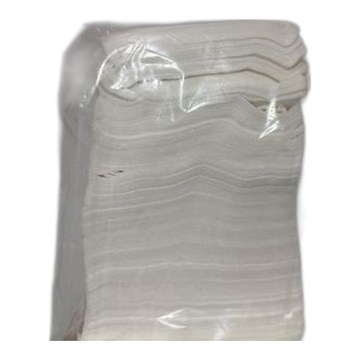
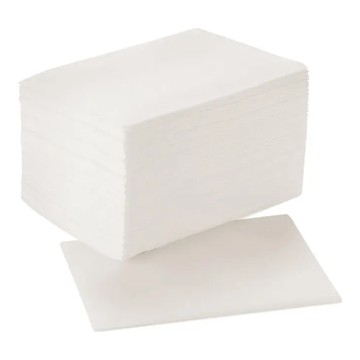
Inventario: 18 fotos nuevas (Ybera, Terra Coco, alcohol, manicura, Biokera, L'Oréal)
Claude-Session: https://claude.ai/code/session_01KR1AxBYgpkpsBHBxHxPdYE

diff --git a/index.html b/index.html
@@ -17,8 +17,8 @@
 <script src="https://www.gstatic.com/firebasejs/10.12.2/firebase-app-compat.js"></script>
 <script src="https://www.gstatic.com/firebasejs/10.12.2/firebase-auth-compat.js"></script>
 <script src="https://www.gstatic.com/firebasejs/10.12.2/firebase-firestore-compat.js"></script>
-<script>window.BUILD="95ebae5b3173"</script>
-<script src="web.js?v=95ebae5b3173"></script>
+<script>window.BUILD="974f87dbcc66"</script>
+<script src="web.js?v=974f87dbcc66"></script>
 </head>
 <body>
 <link rel="preconnect" href="https://fonts.googleapis.com">
@@ -1685,7 +1685,7 @@ async function invDeshacer(b){const pid=b.dataset.pid,ref=db.doc('inventario/'+p
 async function invTermReciente(pid){try{const s=await db.collection('invMov').where('dia','==',hoy()).get(),lim=Date.now()-3600e3;return s.docs.map(d=>d.data()).filter(m=>m.pid===pid&&/^Se terminó/.test(m.tipo||'')&&Date.parse(m.fecha)>lim).sort((a,b)=>(b.fecha||'').localeCompare(a.fecha||''))[0]||null}catch(e){return null}}
 var invB={},invBL={};
 function invBundle(u){if(invBL[u])return;invBL[u]=1;fetch(u).then(r=>r.json()).then(j=>{Object.assign(invB,j);if(modo==='caja'&&tab==='inv'&&$('#invSheet').hidden)renderInv()}).catch(()=>{invBL[u]=0})}
-const FOTOS_V='20261122d',fotoUrl=f=>/^fotos\//.test(f)?f+'?v='+FOTOS_V:f;
+const FOTOS_V='20261123a',fotoUrl=f=>/^fotos\//.test(f)?f+'?v='+FOTOS_V:f;
 const invFoto=p=>{if(!p)return '';if(p.foto)return `<img src="${esc(fotoUrl(p.foto))}" alt="" loading="lazy">`;if(p.fotoB){if(invB[p.id])return `<img src="${invB[p.id]}" alt="" loading="lazy">`;invBundle(p.fotoB)}return ''};
 const INV_CARGA=[
  {ubic:'Cafetería y Bar',marca:'Coca-Cola',nombre:'Coca-Cola Sabor Original',foto:'fotos/cb01.jpg',pres:'caja de 12 botellas (250 ml)',cerr:3,abie:1},
@@ -1706,7 +1706,7 @@ const EV_IDX={};EV_CARTA.forEach((x,i)=>EV_IDX[x[0]]=i);const EV_FAMS=[...new Se
 const esAlfTinte=p=>p.ubic==='Tintes Alfaparf';
 function evTono(p){const t=String(p.nombre||'').toUpperCase().replace(/,/g,'.');const re=/(\d{1,2}(?:\.\d{1,3})?(?:NB|NI)?)/g;let m;while((m=re.exec(t))){if(EV_IDX[m[1]]!=null)return m[1]}return ''}
 const evFoto=t=>'fotos/ev_'+t.replace(/\./g,'-')+'.jpg';
-const FOTO_SET=[["c13","PriceSmart","Azúcar morena en sobres, bolsa 750"],["c11","Sprite","Refresco lima-limón en lata 237 ml (paquete de 12)"],["c10","Hornimans","Infusión Toronjil y Valeriana"],["c09","Café Durán","Café puro molido regular"],["c08","La Estrella","Azúcar blanca de caña"],["c07","Tsunami","Vasos de papel 6 oz"],["c06","Sevilla","Vasos de papel negros 8 oz"],["c05","Nestlé","Leche en polvo Klim FortiCrece"],["c04","Loma Negra","Vino tinto Merlot 2025"],["c03","Blue Nun","Vino blanco Authentic White"],["c02","Loma Negra","Vino espumante Brut (Chile)"],["s31","Joico","Kit Youth Lock (shampoo + acondicionador + sachet Moisture Recovery)"],["s30","Joico","Color Balance Purple Acondicionador"],["s29","Joico","Color Balance Purple Shampoo"],["s25","Joico","Defy Damage Acondicionador protector"],["s24","Joico","K-Pak Color Therapy Acondicionador"],["s23","Joico","K-Pak Color Therapy Shampoo"],["s03","Lakmé","L2 Care acondicionador desenredante sin aclarado"],["s02","Alfaparf Milano","Semi di Lino Smooth Smoothing Oil"],["x14","Arctic Fox","Space Cowgirl tinte semipermanente"],["v133","Alfaparf Milano","Semi di Lino Smooth Smoothing Oil"],["v23","Alfaparf Milano","Semi di Lino Density Acondicionador espesante"],["v25","Milk_Shake","Insta.Light Shampoo fortalecedor"],["v27","Lendan","Plexforte Nº5 Acondicionador"],["v28","Biotop Professional","04 Shedding Shampoo anticaída con biotina"],["v29","Ybera Paris","Discovery Express Clean & Care Shampoo (paso 1)"],["v30","Alfaparf Milano","Semi di Lino Scalp Rebalance Shampoo purificante"],["v41","Biotop Professional","02 Eco Dandruff Shampoo anticaspa"],["v46","Joico","K-Pak 1 Shampoo clarificante"],["v47","Joico","K-Pak 2 Sellador de cutícula"],["v48","Joico","K-Pak 3 Reconstructor"],["v49","Joico","K-Pak 4 Hydrator tratamiento intenso"],["v148","Augeas","Naturally oxidante 10 vol (3%)"],["x09","Arctic Fox","Sterling tinte semipermanente"],["x10","Arctic Fox","Virgin Pink tinte semipermanente"],["x11","Arctic Fox","Poseidon tinte semipermanente"],["x12","Arctic Fox","Electric Paradise tinte semipermanente"]];
+const FOTO_SET=[["c13","PriceSmart","Azúcar morena en sobres, bolsa 750"],["c11","Sprite","Refresco lima-limón en lata 237 ml (paquete de 12)"],["c10","Hornimans","Infusión Toronjil y Valeriana"],["c09","Café Durán","Café puro molido regular"],["c08","La Estrella","Azúcar blanca de caña"],["c07","Tsunami","Vasos de papel 6 oz"],["c06","Sevilla","Vasos de papel negros 8 oz"],["c05","Nestlé","Leche en polvo Klim FortiCrece"],["c04","Loma Negra","Vino tinto Merlot 2025"],["c03","Blue Nun","Vino blanco Authentic White"],["c02","Loma Negra","Vino espumante Brut (Chile)"],["s31","Joico","Kit Youth Lock (shampoo + acondicionador + sachet Moisture Recovery)"],["s30","Joico","Color Balance Purple Acondicionador"],["s29","Joico","Color Balance Purple Shampoo"],["s25","Joico","Defy Damage Acondicionador protector"],["s24","Joico","K-Pak Color Therapy Acondicionador"],["s23","Joico","K-Pak Color Therapy Shampoo"],["s03","Lakmé","L2 Care acondicionador desenredante sin aclarado"],["s02","Alfaparf Milano","Semi di Lino Smooth Smoothing Oil"],["x14","Arctic Fox","Space Cowgirl tinte semipermanente"],["v133","Alfaparf Milano","Semi di Lino Smooth Smoothing Oil"],["v23","Alfaparf Milano","Semi di Lino Density Acondicionador espesante"],["v25","Milk_Shake","Insta.Light Shampoo fortalecedor"],["v27","Lendan","Plexforte Nº5 Acondicionador"],["v28","Biotop Professional","04 Shedding Shampoo anticaída con biotina"],["v29","Ybera Paris","Discovery Express Clean & Care Shampoo (paso 1)"],["v30","Alfaparf Milano","Semi di Lino Scalp Rebalance Shampoo purificante"],["v41","Biotop Professional","02 Eco Dandruff Shampoo anticaspa"],["v46","Joico","K-Pak 1 Shampoo clarificante"],["v47","Joico","K-Pak 2 Sellador de cutícula"],["v48","Joico","K-Pak 3 Reconstructor"],["v49","Joico","K-Pak 4 Hydrator tratamiento intenso"],["v148","Augeas","Naturally oxidante 10 vol (3%)"],["x09","Arctic Fox","Sterling tinte semipermanente"],["x10","Arctic Fox","Virgin Pink tinte semipermanente"],["x11","Arctic Fox","Poseidon tinte semipermanente"],["x12","Arctic Fox","Electric Paradise tinte semipermanente"],["v107","Ybera Paris","Fashion Stylist Enhancer Sealant"],["v108","Ybera Paris","Botulínica Fiber Codes Shampoo anti-age (paso 1)"],["v153","Ybera Paris","Discovery Memórifios Stemcell"],["v73","Terra Coco","Cocktail Capilar jabón de coco líquido"],["v154","Terra Coco","Cocktail selante potencializador"],["l16","Herva","Alcohol desnaturalizado 70°"],["l15","Herva","Alcohol desnaturalizado 95°"],["m08","Arobell","Ablandador de callos y cutícula"],["m33","Olasalon","Lima negra recta 120/180"],["m34","Insumo","Palitos de naranjo"],["m41","Mia Secret","Líquido monómero"],["m51","Insumo","Toallas desechables de manicura (2 cerradas + 1 en uso)"],["s01","Biokera Natura","Bioplastia Shampoo molecular (C)"],["v75","Biokera Natura","Bioplastia Shampoo molecular (C)"],["s04","Biokera Natura","Bioplastia Mascarilla nutritiva (M)"],["s10","L'Oréal Professionnel","Serie Expert Inforcer Mascarilla"],["v62","L'Oréal Professionnel","Serie Expert Inforcer Mascarilla"],["s13","L'Oréal Professionnel","Serie Expert Blondifier Acondicionador"]];
 function invCargaFotos(){if(!duena||!db)return;{const nk=s=>norm(String(s||'').replace(/\s*\(en uso\)\s*$/i,'')).toLowerCase();invs.forEach(p=>{const x=FOTO_SET.find(z=>z[0]===p.id||(nk(z[1])===nk(p.marca)&&nk(z[2])===nk(p.nombre)));if(!x||p._fs)return;const f='fotos/'+x[0]+'.jpg',k=f+'@'+FOTOS_V;if(p.fotoFix===k)return;p._fs=1;const u={foto:f,fotoFix:k};if(p.foto!==f&&p.foto)u.fotoAnt=p.foto;db.doc('inventario/'+p.id).update(u).catch(()=>{p._fs=0})})}const FX=[[/sangr[ií]a/i,'fotos/c20.jpg'],[/separador(es)? de dedos/i,'fotos/m53.jpg']];invs.forEach(p=>{const x=FX.find(z=>z[0].test(p.nombre||''));if(!x||p._fx2||p.fotoFix===FOTOS_V)return;p._fx2=1;const u={foto:x[1],fotoFix:FOTOS_V};if(p.foto!==x[1])u.fotoAnt=p.foto||'';db.doc('inventario/'+p.id).update(u).catch(()=>{p._fx2=0})});invs.forEach(p=>{const c=cartaDe(p);if(!c||p._ct||/^fotos\/ev_/.test(p.foto||''))return;const f='fotos/'+c[3];if(p.foto===f)return;p._ct=1;const u={foto:f};if(!/^fotos\/c[ay]_/.test(p.foto||''))u.fotoAnt=p.foto||'';db.doc('inventario/'+p.id).update(u).catch(()=>{p._ct=0})});invs.forEach(p=>{if(p._ev||!/^fotos\/ev_/.test(p.foto||'')||!('fotoAnt' in p))return;p._ev=1;db.doc('inventario/'+p.id).update({foto:p.fotoAnt||''}).catch(()=>{p._ev=0})});invs.forEach(p=>{if(/^cosmetiquera peluda love/i.test(p.nombre||'')&&p.foto!=='fotos/rf_cosmet1.jpg'&&!p._fc){p._fc=1;db.doc('inventario/'+p.id).update({foto:'fotos/rf_cosmet1.jpg'}).catch(()=>{p._fc=0})}});invs.forEach(p=>{if(p.marca==='Coca-Cola'&&p.nombre==='Coca-Cola Sabor Original'&&p.pres==='botella 250 ml'&&!p._cc){p._cc=1;p.pres='caja de 12 botellas (250 ml)';db.doc('inventario/'+p.id).update({pres:p.pres}).catch(()=>{p._cc=0})}});invs.forEach(p=>{if(p.marca==='Corona'&&['Coronita (cerveza pequeña)','Coronita Extra (cerveza)'].includes(p.nombre)&&!p._rn){p._rn=1;p.nombre='Coronita (cerveza)';p.pres='six pack (6 botellas)';db.doc('inventario/'+p.id).update({nombre:p.nombre,pres:p.pres}).catch(()=>{p._rn=0})}});const F={};INV_CARGA.forEach(x=>{if(x.foto)F[invKey(x)]=x.foto});invs.forEach(p=>{const f=F[invKey(p)];if(f&&!p.foto&&!p._fx){p._fx=1;db.doc('inventario/'+p.id).update({foto:f}).catch(()=>{p._fx=0})}})}
 async function invBorrar(p){await db.doc('inventario/'+p.id).delete();await db.collection('invMov').add({fecha:new Date().toISOString(),dia:hoy(),pid:p.id,marca:p.marca||'',producto:p.nombre,pres:p.pres||'',dc:-(+p.cerr||0),da:-(+p.abie||0),cerr:0,abie:0,tipo:'Producto eliminado',nota:'',por:invQuien()});invMovs=null}
 const esCosmet=p=>p.ubic==='Regalos de Fidelidad'&&/cosmetiquer/i.test(p.nombre||'')&&!/love/i.test(p.nombre||'');

diff --git a/src/app.html b/src/app.html
@@ -1664,7 +1664,7 @@ async function invDeshacer(b){const pid=b.dataset.pid,ref=db.doc('inventario/'+p
 async function invTermReciente(pid){try{const s=await db.collection('invMov').where('dia','==',hoy()).get(),lim=Date.now()-3600e3;return s.docs.map(d=>d.data()).filter(m=>m.pid===pid&&/^Se terminó/.test(m.tipo||'')&&Date.parse(m.fecha)>lim).sort((a,b)=>(b.fecha||'').localeCompare(a.fecha||''))[0]||null}catch(e){return null}}
 var invB={},invBL={};
 function invBundle(u){if(invBL[u])return;invBL[u]=1;fetch(u).then(r=>r.json()).then(j=>{Object.assign(invB,j);if(modo==='caja'&&tab==='inv'&&$('#invSheet').hidden)renderInv()}).catch(()=>{invBL[u]=0})}
-const FOTOS_V='20261122d',fotoUrl=f=>/^fotos\//.test(f)?f+'?v='+FOTOS_V:f;
+const FOTOS_V='20261123a',fotoUrl=f=>/^fotos\//.test(f)?f+'?v='+FOTOS_V:f;
 const invFoto=p=>{if(!p)return '';if(p.foto)return `<img src="${esc(fotoUrl(p.foto))}" alt="" loading="lazy">`;if(p.fotoB){if(invB[p.id])return `<img src="${invB[p.id]}" alt="" loading="lazy">`;invBundle(p.fotoB)}return ''};
 const INV_CARGA=[
  {ubic:'Cafetería y Bar',marca:'Coca-Cola',nombre:'Coca-Cola Sabor Original',foto:'fotos/cb01.jpg',pres:'caja de 12 botellas (250 ml)',cerr:3,abie:1},
@@ -1685,7 +1685,7 @@ const EV_IDX={};EV_CARTA.forEach((x,i)=>EV_IDX[x[0]]=i);const EV_FAMS=[...new Se
 const esAlfTinte=p=>p.ubic==='Tintes Alfaparf';
 function evTono(p){const t=String(p.nombre||'').toUpperCase().replace(/,/g,'.');const re=/(\d{1,2}(?:\.\d{1,3})?(?:NB|NI)?)/g;let m;while((m=re.exec(t))){if(EV_IDX[m[1]]!=null)return m[1]}return ''}
 const evFoto=t=>'fotos/ev_'+t.replace(/\./g,'-')+'.jpg';
-const FOTO_SET=[["c13","PriceSmart","Azúcar morena en sobres, bolsa 750"],["c11","Sprite","Refresco lima-limón en lata 237 ml (paquete de 12)"],["c10","Hornimans","Infusión Toronjil y Valeriana"],["c09","Café Durán","Café puro molido regular"],["c08","La Estrella","Azúcar blanca de caña"],["c07","Tsunami","Vasos de papel 6 oz"],["c06","Sevilla","Vasos de papel negros 8 oz"],["c05","Nestlé","Leche en polvo Klim FortiCrece"],["c04","Loma Negra","Vino tinto Merlot 2025"],["c03","Blue Nun","Vino blanco Authentic White"],["c02","Loma Negra","Vino espumante Brut (Chile)"],["s31","Joico","Kit Youth Lock (shampoo + acondicionador + sachet Moisture Recovery)"],["s30","Joico","Color Balance Purple Acondicionador"],["s29","Joico","Color Balance Purple Shampoo"],["s25","Joico","Defy Damage Acondicionador protector"],["s24","Joico","K-Pak Color Therapy Acondicionador"],["s23","Joico","K-Pak Color Therapy Shampoo"],["s03","Lakmé","L2 Care acondicionador desenredante sin aclarado"],["s02","Alfaparf Milano","Semi di Lino Smooth Smoothing Oil"],["x14","Arctic Fox","Space Cowgirl tinte semipermanente"],["v133","Alfaparf Milano","Semi di Lino Smooth Smoothing Oil"],["v23","Alfaparf Milano","Semi di Lino Density Acondicionador espesante"],["v25","Milk_Shake","Insta.Light Shampoo fortalecedor"],["v27","Lendan","Plexforte Nº5 Acondicionador"],["v28","Biotop Professional","04 Shedding Shampoo anticaída con biotina"],["v29","Ybera Paris","Discovery Express Clean & Care Shampoo (paso 1)"],["v30","Alfaparf Milano","Semi di Lino Scalp Rebalance Shampoo purificante"],["v41","Biotop Professional","02 Eco Dandruff Shampoo anticaspa"],["v46","Joico","K-Pak 1 Shampoo clarificante"],["v47","Joico","K-Pak 2 Sellador de cutícula"],["v48","Joico","K-Pak 3 Reconstructor"],["v49","Joico","K-Pak 4 Hydrator tratamiento intenso"],["v148","Augeas","Naturally oxidante 10 vol (3%)"],["x09","Arctic Fox","Sterling tinte semipermanente"],["x10","Arctic Fox","Virgin Pink tinte semipermanente"],["x11","Arctic Fox","Poseidon tinte semipermanente"],["x12","Arctic Fox","Electric Paradise tinte semipermanente"]];
+const FOTO_SET=[["c13","PriceSmart","Azúcar morena en sobres, bolsa 750"],["c11","Sprite","Refresco lima-limón en lata 237 ml (paquete de 12)"],["c10","Hornimans","Infusión Toronjil y Valeriana"],["c09","Café Durán","Café puro molido regular"],["c08","La Estrella","Azúcar blanca de caña"],["c07","Tsunami","Vasos de papel 6 oz"],["c06","Sevilla","Vasos de papel negros 8 oz"],["c05","Nestlé","Leche en polvo Klim FortiCrece"],["c04","Loma Negra","Vino tinto Merlot 2025"],["c03","Blue Nun","Vino blanco Authentic White"],["c02","Loma Negra","Vino espumante Brut (Chile)"],["s31","Joico","Kit Youth Lock (shampoo + acondicionador + sachet Moisture Recovery)"],["s30","Joico","Color Balance Purple Acondicionador"],["s29","Joico","Color Balance Purple Shampoo"],["s25","Joico","Defy Damage Acondicionador protector"],["s24","Joico","K-Pak Color Therapy Acondicionador"],["s23","Joico","K-Pak Color Therapy Shampoo"],["s03","Lakmé","L2 Care acondicionador desenredante sin aclarado"],["s02","Alfaparf Milano","Semi di Lino Smooth Smoothing Oil"],["x14","Arctic Fox","Space Cowgirl tinte semipermanente"],["v133","Alfaparf Milano","Semi di Lino Smooth Smoothing Oil"],["v23","Alfaparf Milano","Semi di Lino Density Acondicionador espesante"],["v25","Milk_Shake","Insta.Light Shampoo fortalecedor"],["v27","Lendan","Plexforte Nº5 Acondicionador"],["v28","Biotop Professional","04 Shedding Shampoo anticaída con biotina"],["v29","Ybera Paris","Discovery Express Clean & Care Shampoo (paso 1)"],["v30","Alfaparf Milano","Semi di Lino Scalp Rebalance Shampoo purificante"],["v41","Biotop Professional","02 Eco Dandruff Shampoo anticaspa"],["v46","Joico","K-Pak 1 Shampoo clarificante"],["v47","Joico","K-Pak 2 Sellador de cutícula"],["v48","Joico","K-Pak 3 Reconstructor"],["v49","Joico","K-Pak 4 Hydrator tratamiento intenso"],["v148","Augeas","Naturally oxidante 10 vol (3%)"],["x09","Arctic Fox","Sterling tinte semipermanente"],["x10","Arctic Fox","Virgin Pink tinte semipermanente"],["x11","Arctic Fox","Poseidon tinte semipermanente"],["x12","Arctic Fox","Electric Paradise tinte semipermanente"],["v107","Ybera Paris","Fashion Stylist Enhancer Sealant"],["v108","Ybera Paris","Botulínica Fiber Codes Shampoo anti-age (paso 1)"],["v153","Ybera Paris","Discovery Memórifios Stemcell"],["v73","Terra Coco","Cocktail Capilar jabón de coco líquido"],["v154","Terra Coco","Cocktail selante potencializador"],["l16","Herva","Alcohol desnaturalizado 70°"],["l15","Herva","Alcohol desnaturalizado 95°"],["m08","Arobell","Ablandador de callos y cutícula"],["m33","Olasalon","Lima negra recta 120/180"],["m34","Insumo","Palitos de naranjo"],["m41","Mia Secret","Líquido monómero"],["m51","Insumo","Toallas desechables de manicura (2 cerradas + 1 en uso)"],["s01","Biokera Natura","Bioplastia Shampoo molecular (C)"],["v75","Biokera Natura","Bioplastia Shampoo molecular (C)"],["s04","Biokera Natura","Bioplastia Mascarilla nutritiva (M)"],["s10","L'Oréal Professionnel","Serie Expert Inforcer Mascarilla"],["v62","L'Oréal Professionnel","Serie Expert Inforcer Mascarilla"],["s13","L'Oréal Professionnel","Serie Expert Blondifier Acondicionador"]];
 function invCargaFotos(){if(!duena||!db)return;{const nk=s=>norm(String(s||'').replace(/\s*\(en uso\)\s*$/i,'')).toLowerCase();invs.forEach(p=>{const x=FOTO_SET.find(z=>z[0]===p.id||(nk(z[1])===nk(p.marca)&&nk(z[2])===nk(p.nombre)));if(!x||p._fs)return;const f='fotos/'+x[0]+'.jpg',k=f+'@'+FOTOS_V;if(p.fotoFix===k)return;p._fs=1;const u={foto:f,fotoFix:k};if(p.foto!==f&&p.foto)u.fotoAnt=p.foto;db.doc('inventario/'+p.id).update(u).catch(()=>{p._fs=0})})}const FX=[[/sangr[ií]a/i,'fotos/c20.jpg'],[/separador(es)? de dedos/i,'fotos/m53.jpg']];invs.forEach(p=>{const x=FX.find(z=>z[0].test(p.nombre||''));if(!x||p._fx2||p.fotoFix===FOTOS_V)return;p._fx2=1;const u={foto:x[1],fotoFix:FOTOS_V};if(p.foto!==x[1])u.fotoAnt=p.foto||'';db.doc('inventario/'+p.id).update(u).catch(()=>{p._fx2=0})});invs.forEach(p=>{const c=cartaDe(p);if(!c||p._ct||/^fotos\/ev_/.test(p.foto||''))return;const f='fotos/'+c[3];if(p.foto===f)return;p._ct=1;const u={foto:f};if(!/^fotos\/c[ay]_/.test(p.foto||''))u.fotoAnt=p.foto||'';db.doc('inventario/'+p.id).update(u).catch(()=>{p._ct=0})});invs.forEach(p=>{if(p._ev||!/^fotos\/ev_/.test(p.foto||'')||!('fotoAnt' in p))return;p._ev=1;db.doc('inventario/'+p.id).update({foto:p.fotoAnt||''}).catch(()=>{p._ev=0})});invs.forEach(p=>{if(/^cosmetiquera peluda love/i.test(p.nombre||'')&&p.foto!=='fotos/rf_cosmet1.jpg'&&!p._fc){p._fc=1;db.doc('inventario/'+p.id).update({foto:'fotos/rf_cosmet1.jpg'}).catch(()=>{p._fc=0})}});invs.forEach(p=>{if(p.marca==='Coca-Cola'&&p.nombre==='Coca-Cola Sabor Original'&&p.pres==='botella 250 ml'&&!p._cc){p._cc=1;p.pres='caja de 12 botellas (250 ml)';db.doc('inventario/'+p.id).update({pres:p.pres}).catch(()=>{p._cc=0})}});invs.forEach(p=>{if(p.marca==='Corona'&&['Coronita (cerveza pequeña)','Coronita Extra (cerveza)'].includes(p.nombre)&&!p._rn){p._rn=1;p.nombre='Coronita (cerveza)';p.pres='six pack (6 botellas)';db.doc('inventario/'+p.id).update({nombre:p.nombre,pres:p.pres}).catch(()=>{p._rn=0})}});const F={};INV_CARGA.forEach(x=>{if(x.foto)F[invKey(x)]=x.foto});invs.forEach(p=>{const f=F[invKey(p)];if(f&&!p.foto&&!p._fx){p._fx=1;db.doc('inventario/'+p.id).update({foto:f}).catch(()=>{p._fx=0})}})}
 async function invBorrar(p){await db.doc('inventario/'+p.id).delete();await db.collection('invMov').add({fecha:new Date().toISOString(),dia:hoy(),pid:p.id,marca:p.marca||'',producto:p.nombre,pres:p.pres||'',dc:-(+p.cerr||0),da:-(+p.abie||0),cerr:0,abie:0,tipo:'Producto eliminado',nota:'',por:invQuien()});invMovs=null}
 const esCosmet=p=>p.ubic==='Regalos de Fidelidad'&&/cosmetiquer/i.test(p.nombre||'')&&!/love/i.test(p.nombre||'');
